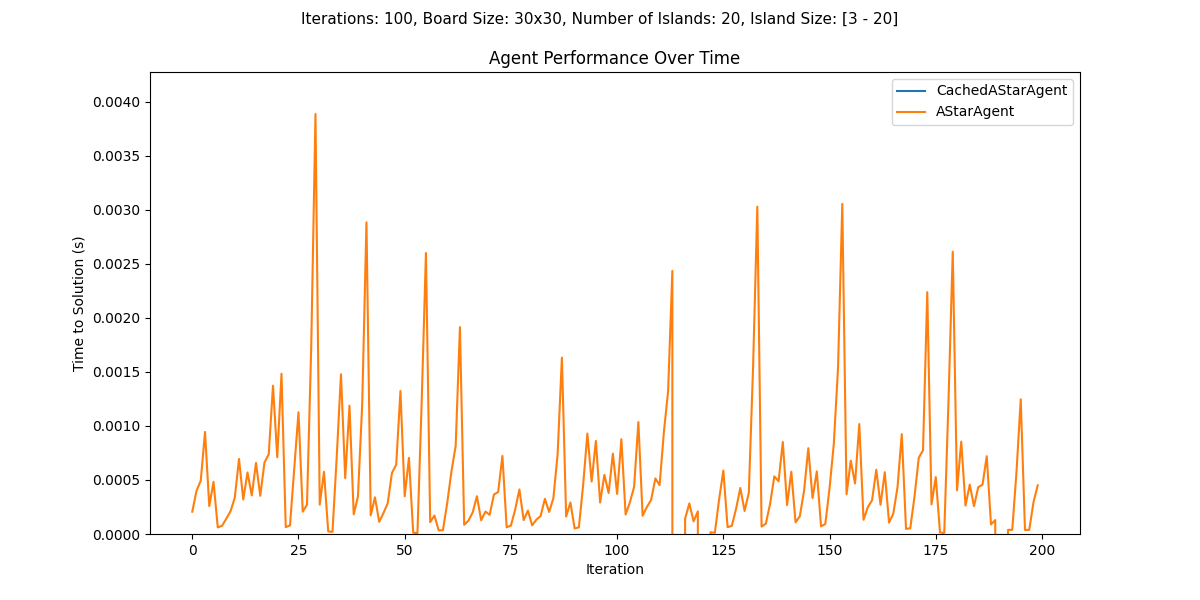
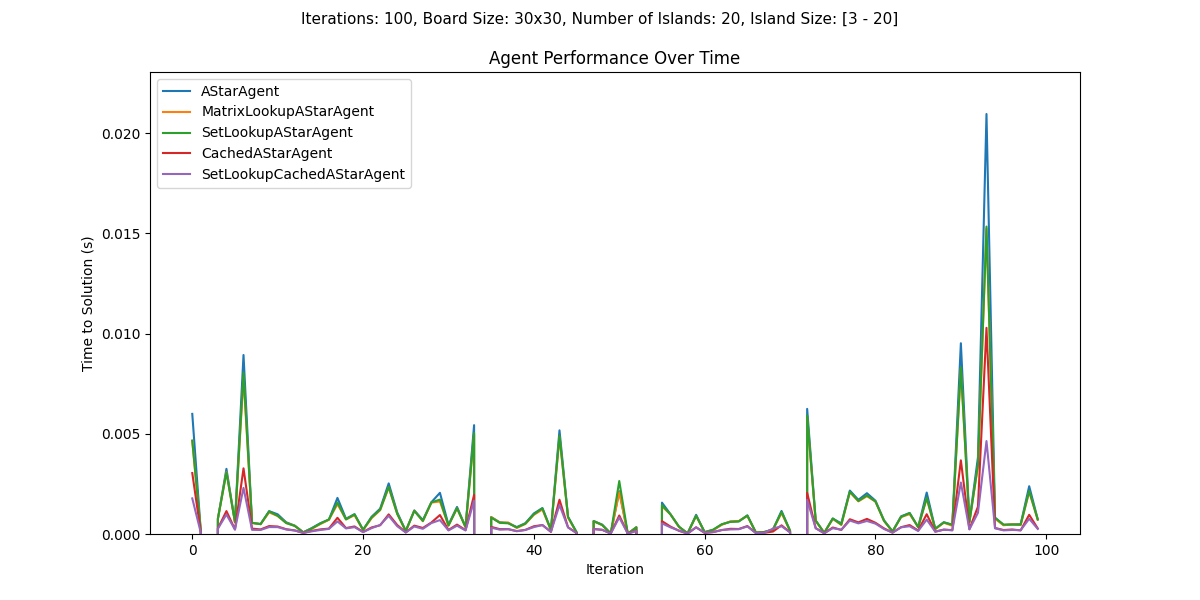
Removed sort frontier

diff --git a/optimized_agents.py b/optimized_agents.py
@@ -78,13 +78,13 @@ class MemoryLookupLocalSearchAgent(Agent):
             return
 
         self.frontier = self.open_moves(board)
-        self.sort_frontier()
         
         if not self.frontier:
             self.no_solution = True
             return
         
-        coord = self.frontier.pop(0)
+        idx = self.get_choice(self.frontier, self.heuristic)
+        coord = self.frontier.pop(idx)
 
         if coord not in self.penalties:
             self.penalties[coord] = 1
@@ -99,6 +99,9 @@ class CachedAStarAgent(AStarAgent):
     def __init__(self, color, i, j, goal_i, goal_j, board):
         super().__init__(color, i, j, goal_i, goal_j, board)
 
+    def name(self):
+        return 'CachedAStarAgent'
+
     @lru_cache(maxsize=256)
     def heuristic(self, i=None, j=None):
         '''
@@ -109,15 +112,44 @@ class CachedAStarAgent(AStarAgent):
         if j == None:
             j = self.j
         self.heuristic_calls += 1
-        # computing a square root is slow, make a heuristic that doesn't use it?
         return ((self.goal_i - i) ** 2 + (self.goal_j - j) ** 2) ** (1/2)
+    
+class SetLookupCachedAStarAgent(CachedAStarAgent):
+    def __init__(self, color, i, j, goal_i, goal_j, board):
+        super().__init__(color, i, j, goal_i, goal_j, board)
+        self.searched = set() # use a set here for faster lookup
+
+    def name(self):
+        return 'SetLookupCachedAStarAgent'
+    
+    def move(self, board):
+        '''
+        Moves the given agent on the board
+        '''
+        if self.is_goal():
+            return
+        
+        moves = self.open_moves(board)
+        self.frontier += moves
+        
+        if not self.frontier:
+            self.no_solution = True
+            return
+
+        idx = self.get_choice(self.frontier, self.heuristic)
+        coord = self.frontier.pop(idx)
+
+        board[self.i][self.j] = 0
+        self.i, self.j = coord
+        board[self.i][self.j] = self
+        self.searched.add((self.i, self.j))
 
 
 class BidirectionalLocalSearchAgent(GuidedLocalSearchAgent):
     '''
-    Perform a local search where both agents navigate to one another.
+    Perform a local search where both agents navigate to one another
 
-    Takes the ideas of bidirectional search and local search and combines them.
+    Takes the ideas of bidirectional search and local search and combines them
     '''
     def __init__(self, color, i, j, goal_i, goal_j, board):
         super().__init__(color, i, j, goal_i, goal_j, board)
@@ -175,18 +207,19 @@ class BidirectionalLocalSearchAgent(GuidedLocalSearchAgent):
         # get the open moves
         moves = self.open_moves(board)
         self.frontier = moves
-        self.sort_frontier()
 
         moves = self.open_moves(board, self.goal_i, self.goal_j)
         self.goal_frontier = moves
-        self.sort_goal_frontier()
 
         if not self.frontier or not self.goal_frontier:
             self.no_solution = True
             return
         
-        coord = self.frontier.pop(0)
-        goal_coord = self.goal_frontier.pop(0)
+        idx = self.get_choice(self.frontier, self.heuristic)
+        coord = self.frontier.pop(idx)
+
+        idx = self.get_choice(self.goal_frontier, self.goal_heuristic)
+        goal_coord = self.goal_frontier.pop(idx)
 
         # move agents
         board[self.i][self.j] = 0
@@ -258,12 +291,13 @@ class SetLookupAStarAgent(AStarAgent):
         
         moves = self.open_moves(board)
         self.frontier += moves
-        self.sort_frontier()
         
         if not self.frontier:
             self.no_solution = True
             return
-        coord = self.frontier.pop(0)
+
+        idx = self.get_choice(self.frontier, self.heuristic)
+        coord = self.frontier.pop(idx)
 
         board[self.i][self.j] = 0
         self.i, self.j = coord
@@ -297,12 +331,13 @@ class MatrixLookupAStarAgent(AStarAgent):
         
         moves = self.open_moves(board)
         self.frontier += moves
-        self.sort_frontier()
         
         if not self.frontier:
             self.no_solution = True
             return
-        coord = self.frontier.pop(0)
+        
+        idx = self.get_choice(self.frontier, self.heuristic)
+        coord = self.frontier.pop(idx)
 
         board[self.i][self.j] = 0
         self.searched[self.i][self.j] = True

diff --git a/agents.py b/agents.py
@@ -45,7 +45,23 @@ class Agent():
         # computing a square root is slow, make a heuristic that doesn't use it?
         return ((self.goal_i - i) ** 2 + (self.goal_j - j) ** 2) ** (1/2)
         # return max(abs(self.goal_i - i), abs(self.goal_j - j))
-        
+
+    def get_choice(self, frontier, heuristic):
+        '''
+        Helper function to get the best choice from a frontier
+
+        Returns a tuple of (index, value)
+        '''
+        best = float('inf')
+        best_idx = -1
+        for i in range(len(frontier)):
+            coord = frontier[i]
+            if heuristic(coord[0], coord[1]) < best:
+                best = heuristic(coord[0], coord[1])
+                best_idx = i
+
+        return best_idx
+    
     def open_moves(self, board):
         pass
     
@@ -54,7 +70,7 @@ class Agent():
 
     def sort_frontier(self):
         self.frontier.sort(key=lambda coord: self.heuristic(coord[0], coord[1]) + 1)
-
+    
     def __repr__(self):
         return f'Agent at position ({self.i}, {self.j}) color {self.color}'
     
@@ -102,12 +118,13 @@ class AStarAgent(Agent):
         
         moves = self.open_moves(board)
         self.frontier += moves
-        self.sort_frontier()
         
         if not self.frontier:
             self.no_solution = True
             return
-        coord = self.frontier.pop(0)
+        
+        idx = self.get_choice(self.frontier, self.heuristic)
+        coord = self.frontier.pop(idx)
 
         board[self.i][self.j] = 0
         self.i, self.j = coord
@@ -206,8 +223,11 @@ class BidirectionalSearchAgent(Agent):
             self.no_solution = True
             return
         
-        coord = self.frontier.pop(0)
-        goal_coord = self.goal_frontier.pop(0)
+        idx = self.get_choice(self.frontier, self.heuristic)
+        coord = self.frontier.pop(idx)
+
+        idx = self.get_choice(self.goal_frontier, self.goal_heuristic)
+        goal_coord = self.goal_frontier.pop(idx)
 
         board[self.i][self.j] = 0
         self.i, self.j = coord
@@ -398,7 +418,6 @@ class DelayedImprovementAgent(Agent):
             return
                 
         self.frontier = self.open_moves(board)
-        self.sort_frontier()
 
         if not self.frontier:
             self.iterations += 1
@@ -408,7 +427,8 @@ class DelayedImprovementAgent(Agent):
             if not self.frontier:
                 return
 
-        coord = self.frontier.pop(0)
+        idx = self.get_choice(self.frontier, self.heuristic)
+        coord = self.frontier.pop(idx)
 
         board[self.i][self.j] = 0
         self.i, self.j = coord
@@ -490,7 +510,7 @@ class SimulatedAnnealingAgent(Agent):
         idx_to_pop = 0
         coord = self.frontier[0]
 
-        # give a weighted choice so that the simulated annealing can lend towards more optimal move
+        # give a weighted choice so that the simulated annealing can lend itself towards more optimal move
         if n > 1:
             weighted_choice = []
             for i in range(n - 1, 0, -1):
@@ -571,13 +591,13 @@ class GuidedLocalSearchAgent(Agent):
             return
 
         self.frontier = self.open_moves(board)
-        self.sort_frontier()
         
         if not self.frontier:
             self.no_solution = True
             return
         
-        coord = self.frontier.pop(0)
+        idx = self.get_choice(self.frontier, self.heuristic)
+        coord = self.frontier.pop(idx)
 
         if coord not in self.penalties:
             self.penalties[coord] = 1

diff --git a/testing.py b/testing.py
@@ -172,12 +172,11 @@ if __name__ == '__main__':
     # agents = [GuidedLocalSearchAgent, BidirectionalLocalSearchAgent]
     # agents = [AStarAgent, HeuristicAdjustmentAStarAgent]
     # agents = [MemoryLookupLocalSearchAgent, GuidedLocalSearchAgent]
-    agents = [CachedAStarAgent, AStarAgent]
+    agents = [AStarAgent, MatrixLookupAStarAgent, SetLookupAStarAgent, CachedAStarAgent, SetLookupCachedAStarAgent]
 
     iterations = 100
     board = b
     data = board.test(iterations, agents)
-    print(data)
 
     averagePerformanceBarChart(agents, iterations, board, 'average_performance.png', data)
     performanceLinechart(agents, iterations, board, 'performance.png', data)

diff --git a/board.py b/board.py
@@ -48,7 +48,7 @@ class Board():
             j = random.randint(1, self.cols - 2)
             blocks = random.randint(self.min_island_size, self.max_island_size)
             board[i][j] = 2
-            choice_list =make_choice_list(i, j)
+            choice_list = make_choice_list(i, j)
             for _ in range(blocks - 1):
                 choice_i, choice_j = random.choice(choice_list)
 

diff --git a/main.py b/main.py
@@ -28,7 +28,7 @@ def main(agent=Agent):
 # main()
 # main(GuidedLocalSearchAgent)
 # main(DelayedImprovementAgent)
-main(CachedAStarAgent)
+main(SteepestAscentAgent)
 
 # b = Board()
 # print(b.test(100, AStarAgent, BidirectionalSearchAgent, SimulatedAnnealingAgent))
